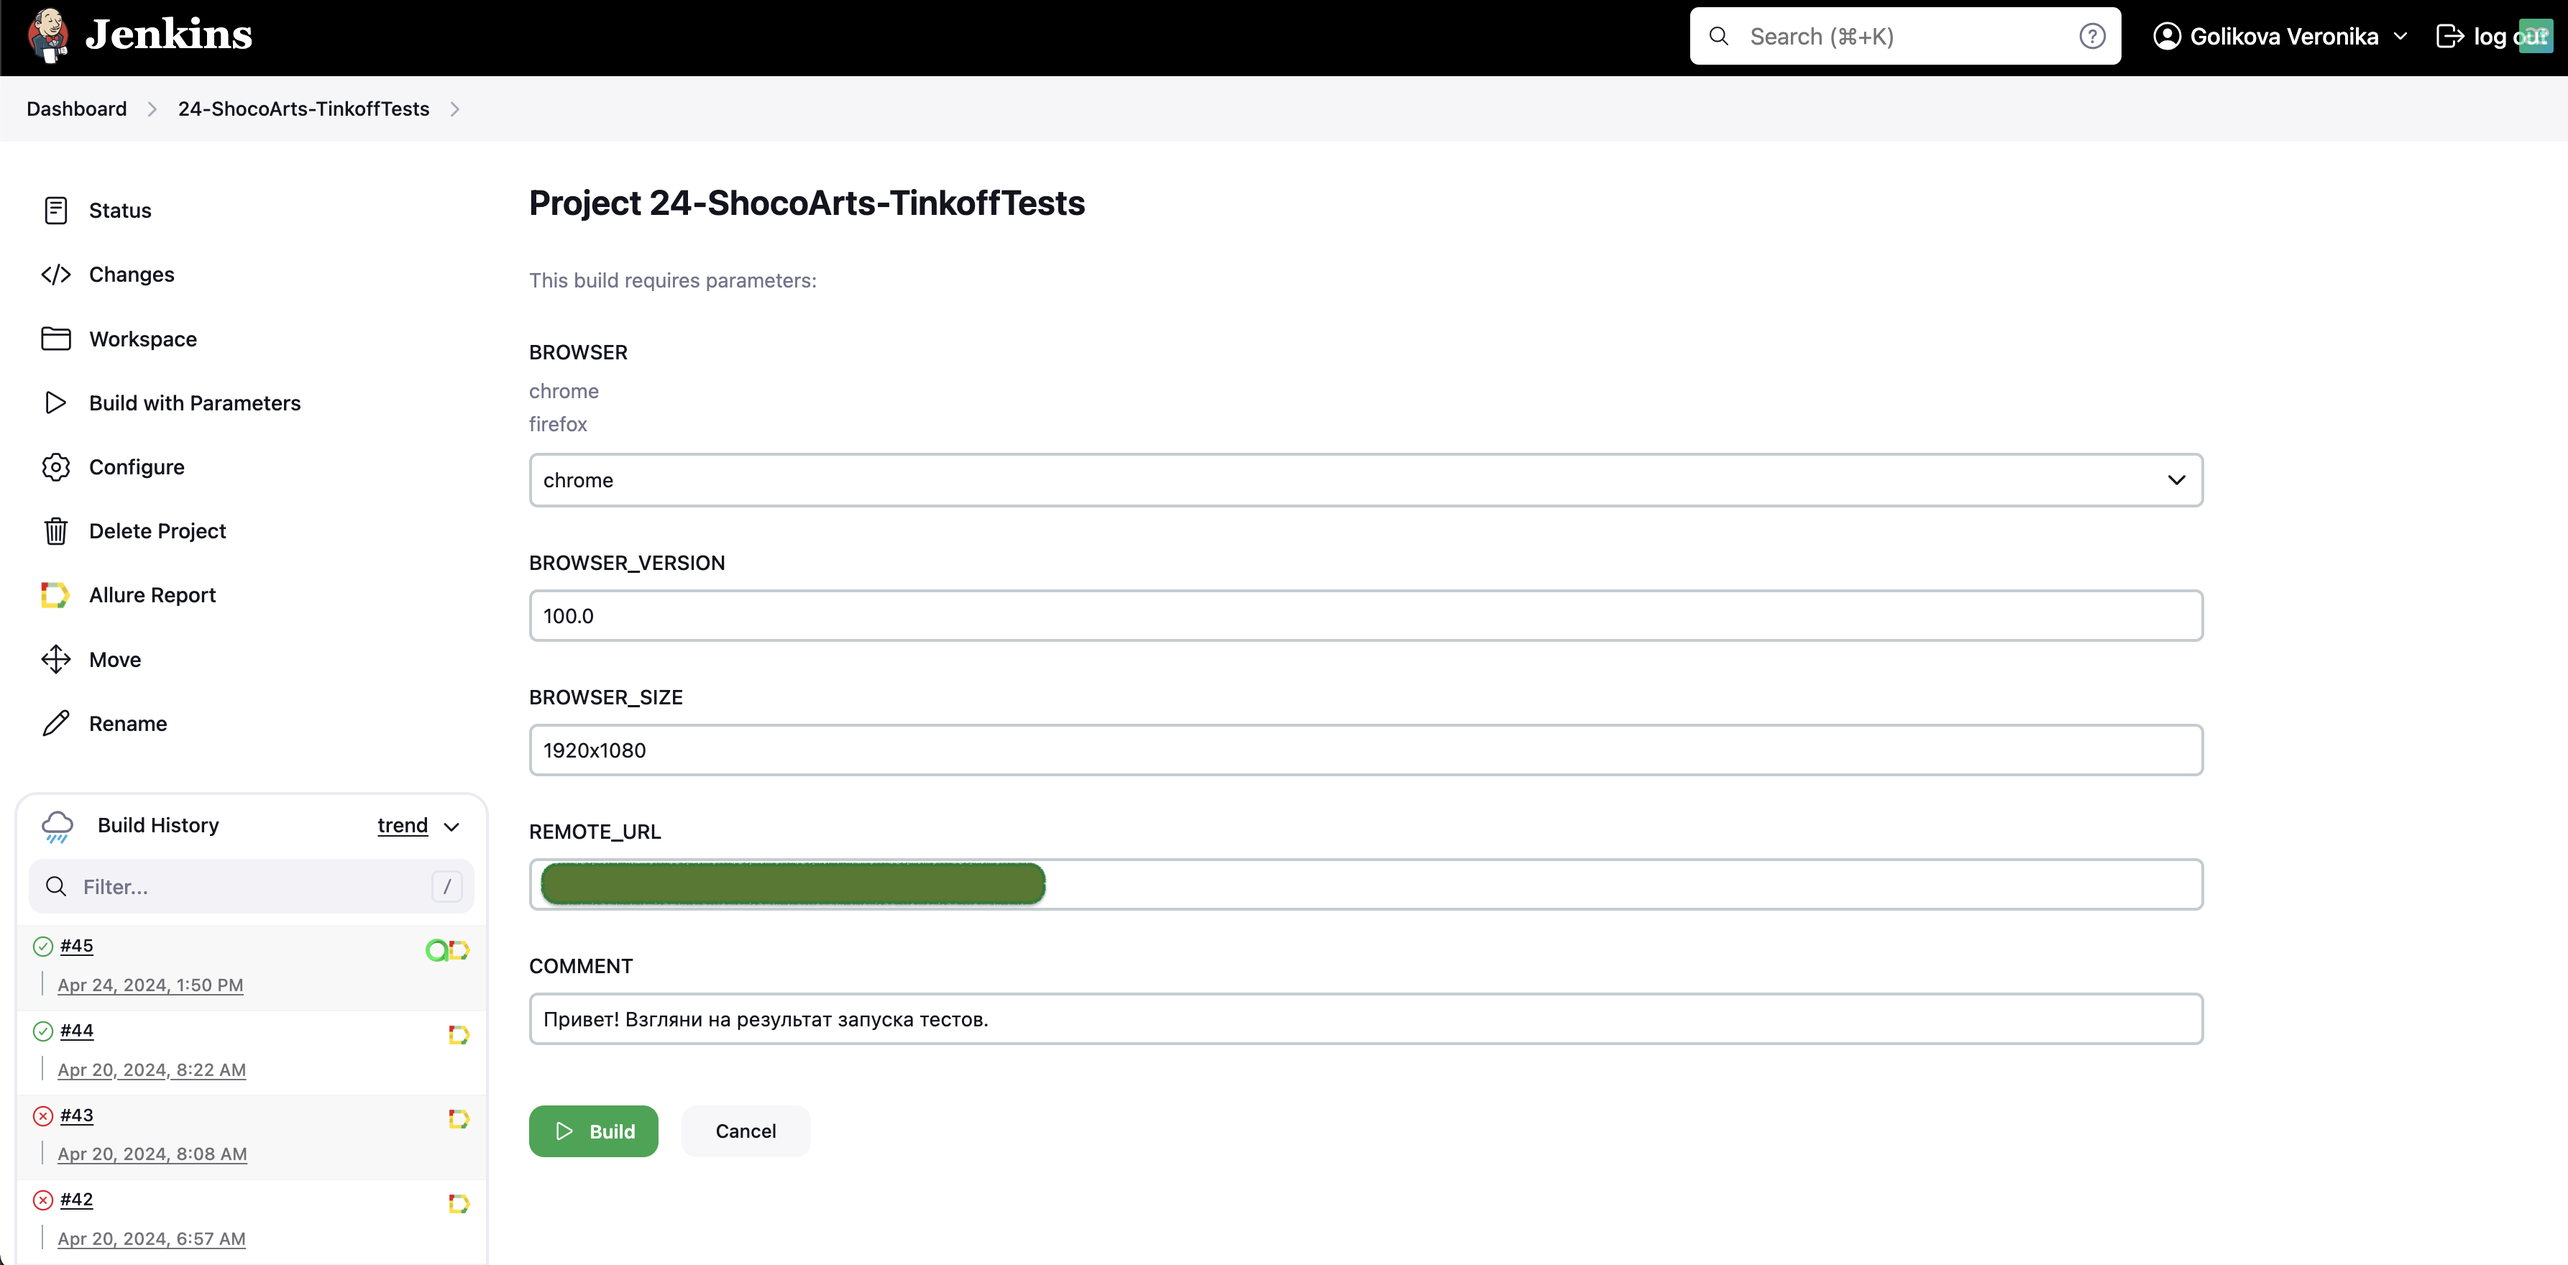
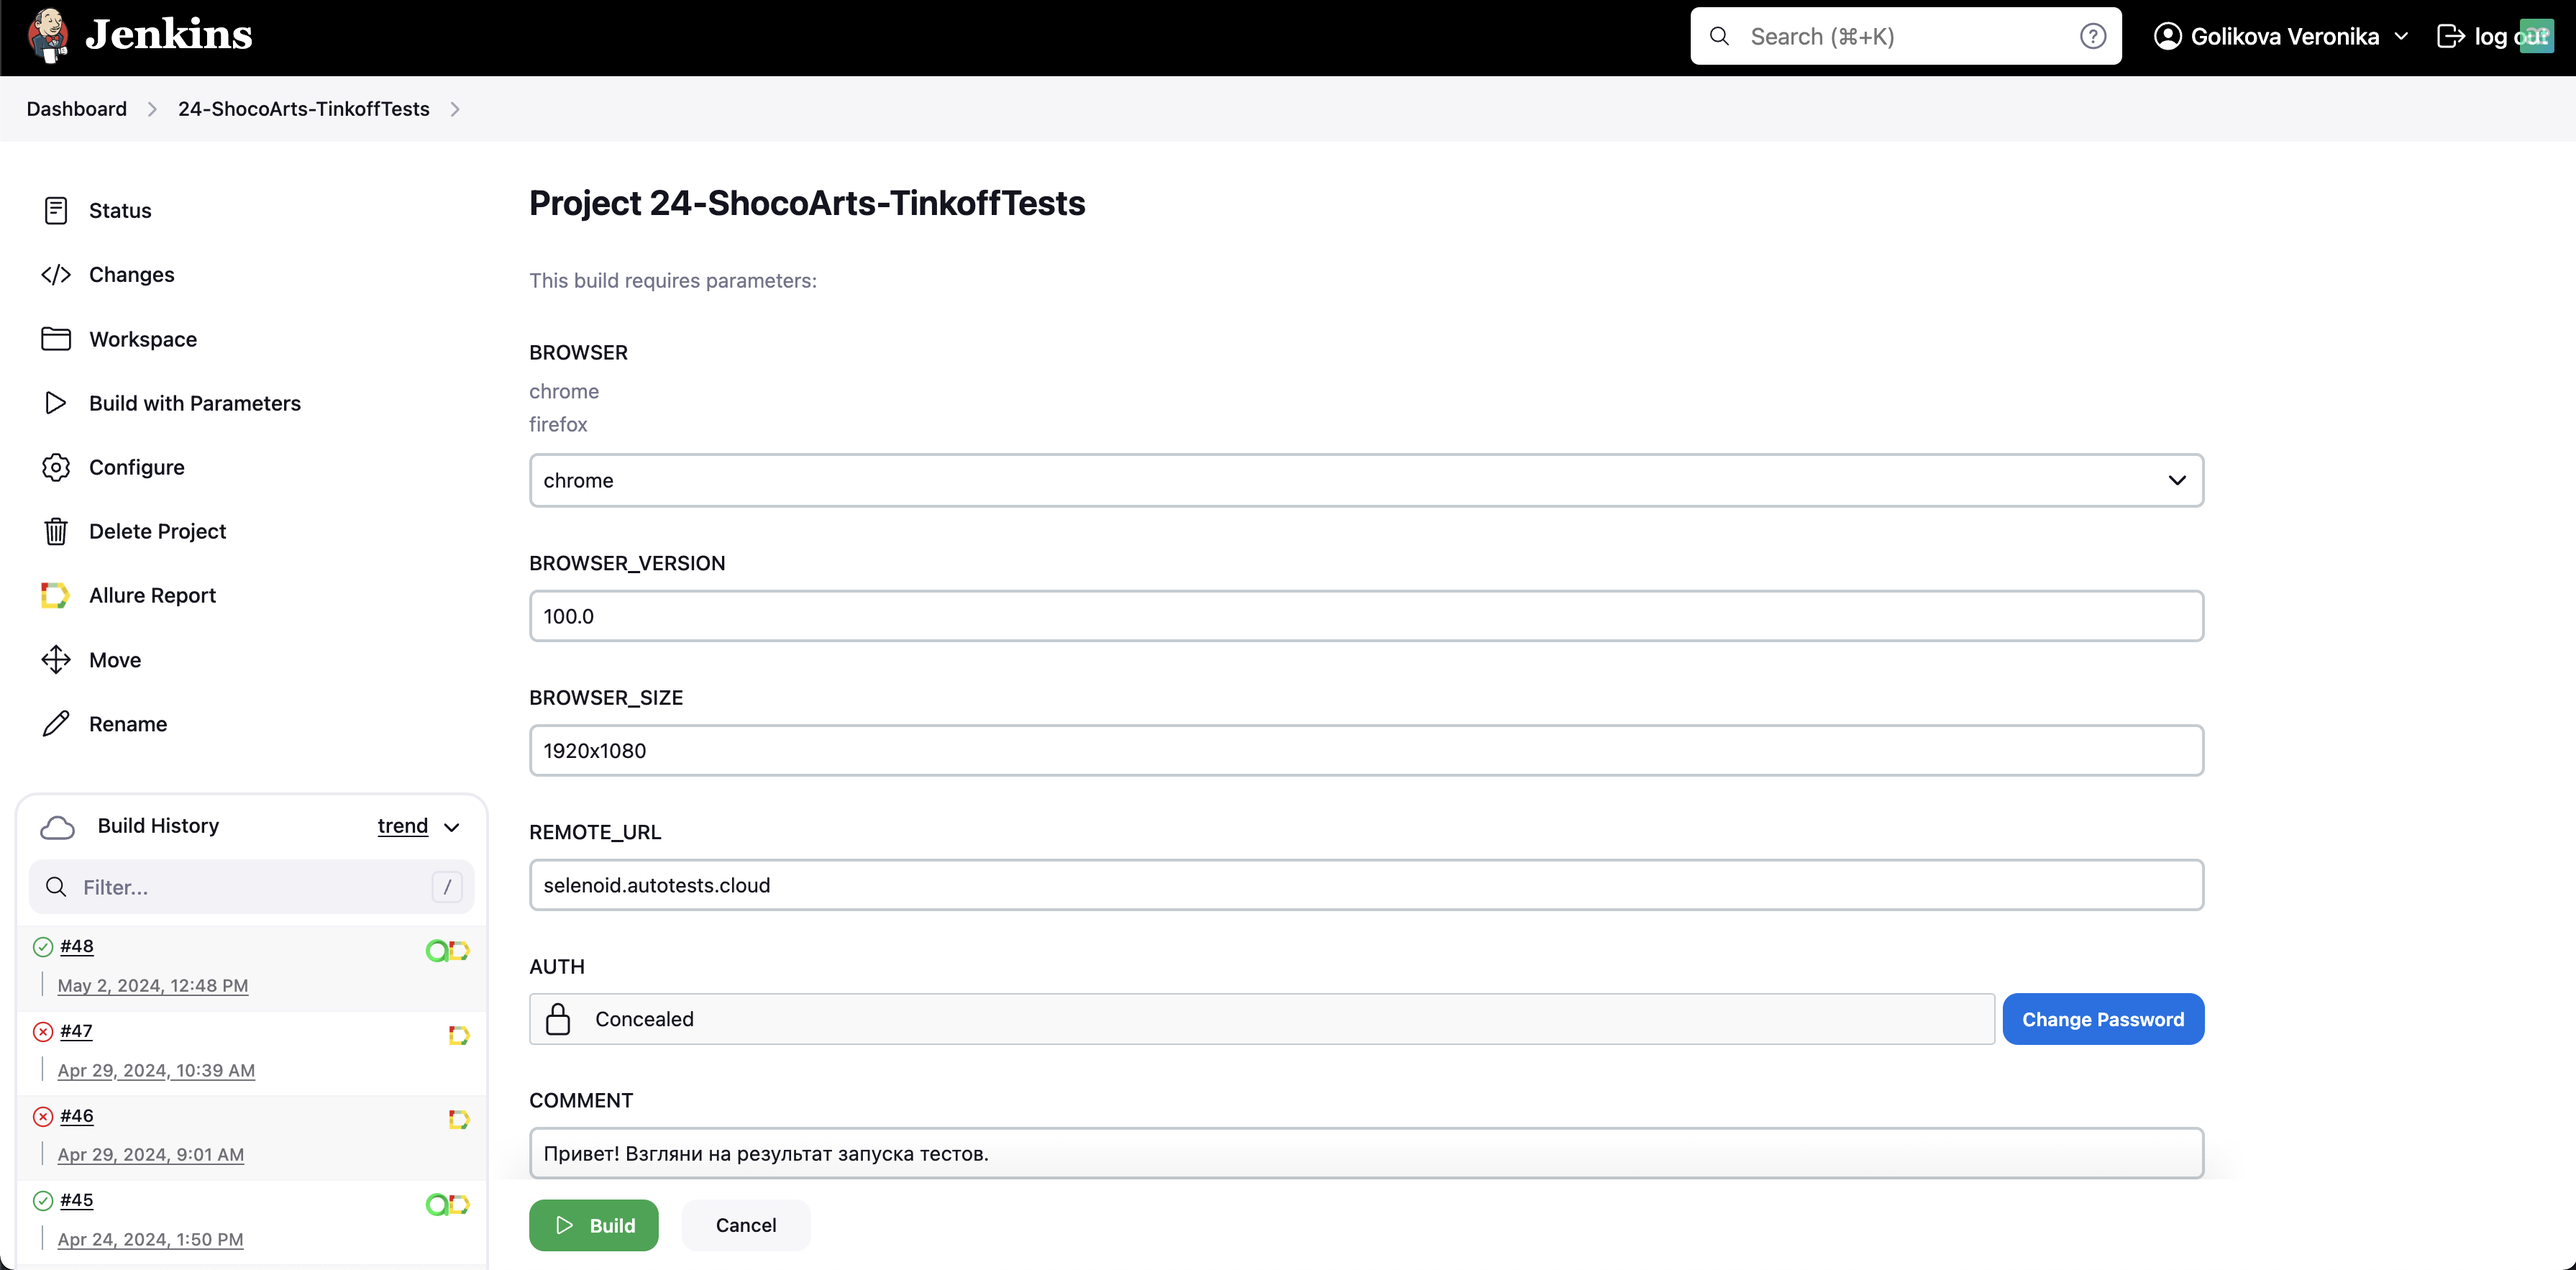
Fix README.md

diff --git a/README.md b/README.md
@@ -64,7 +64,7 @@ clean test
 -D"browser.name=${BROWSER}"
 -D"browser.version=${BROWSER_VERSION}"
 -D"browser.size=${BROWSER_SIZE}"
--D"remote.url=${REMOTE_URL}"
+-D"remote.url=https://${AUTH}@${REMOTE_URL}/wd/hub"
 ```
 
 <p align="center">
@@ -80,6 +80,7 @@ ___
 * <code>BROWSER_VERSION</code> – версия браузера, в которой будут выполняться тесты. По умолчанию – <code>100.0</code>.
 * <code>BROWSER_SIZE</code> – размер окна браузера, в котором будут выполняться тесты. По умолчанию – <code>1920x1080</code>.
 * <code>REMOTE_URL</code> – адрес удаленного сервера, на котором будут запускаться тесты.
+* <code>AUTH</code> – креды для запуска на удаленном сервере.
 
 ___
 
@@ -96,7 +97,7 @@ ___
 
 ___
 
-## <img width="4%" style="vertical-align:middle" title="Allure Report" src="media/logos/Allure.svg"> [Пример](https://jenkins.autotests.cloud/job/24-ShocoArts-TinkoffTests/45/allure/) Allure-отчета
+## <img width="4%" style="vertical-align:middle" title="Allure Report" src="media/logos/Allure.svg"> [Пример](https://jenkins.autotests.cloud/job/24-ShocoArts-TinkoffTests/48/allure/) Allure-отчета
 ### Основаня страница отчета
 
 
